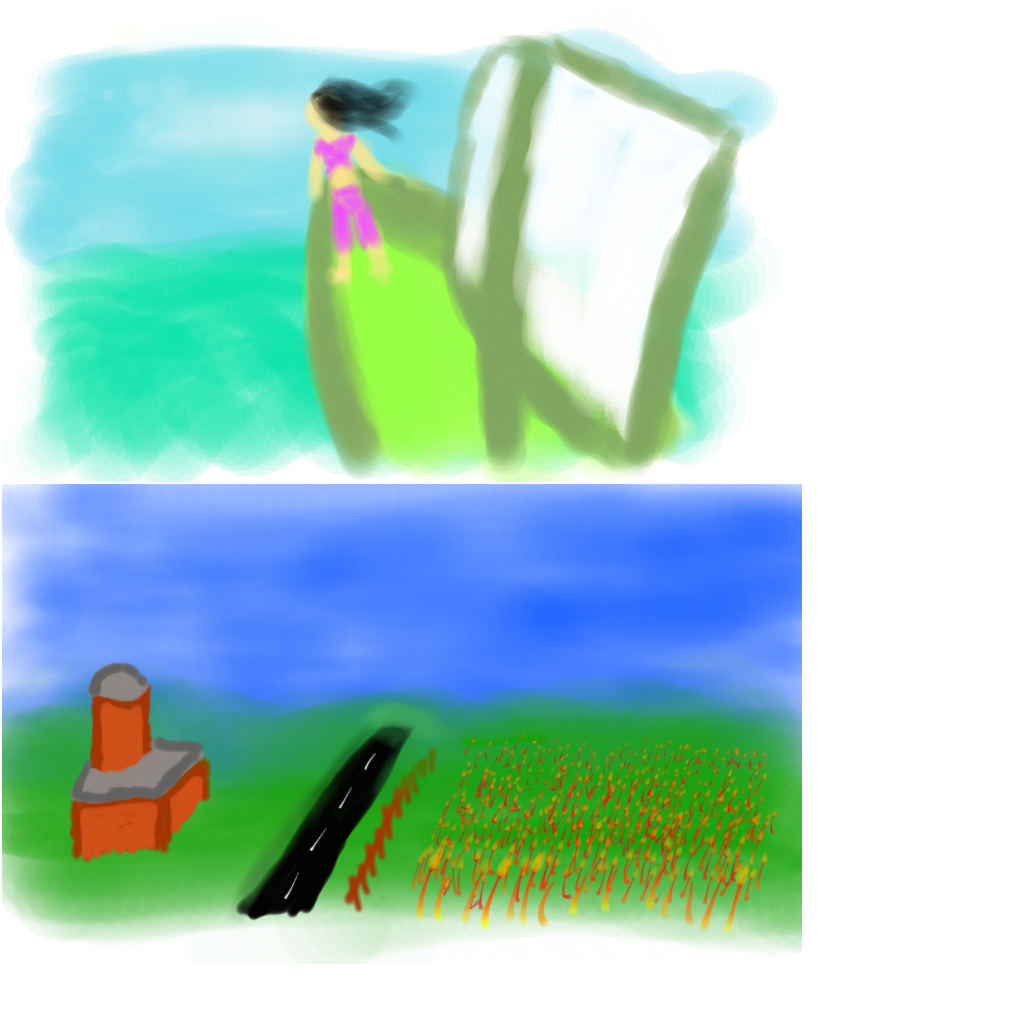
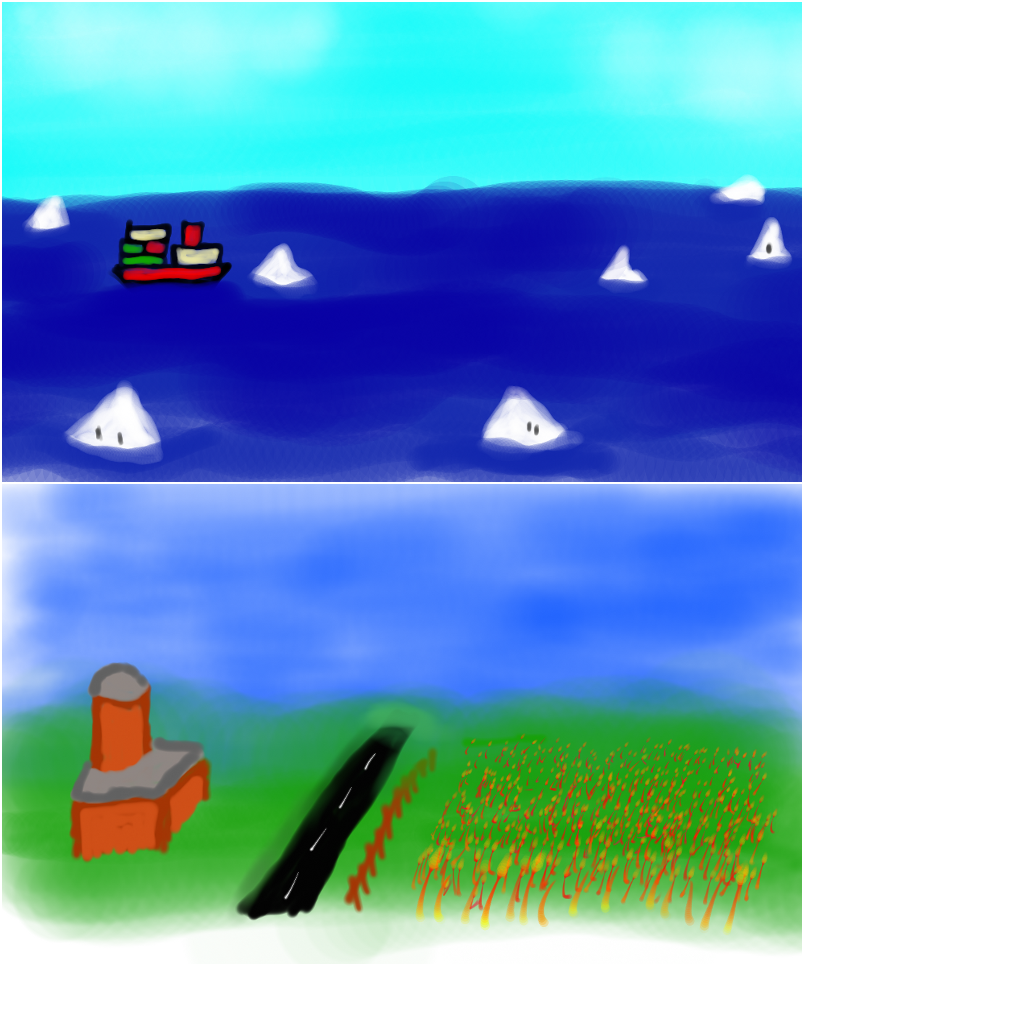
Extra levels and niceties
Added 4 levels to the game. Now the game will not loop anymore on the
last level. Every time you clear a level, you gain a life. You risk
your life.

diff --git a/core/src/org/castelodelego/ld29/Globals.java b/core/src/org/castelodelego/ld29/Globals.java
@@ -49,12 +49,16 @@ public class Globals {
 		
 		
 		// FIXME: Make level loading from text file
-		gc = new GameContext(3);
+		gc = new GameContext(7);
 		levellist = new Level[gc.getmaxlevel()];
 		int i = 0;
 		levellist[i++] = new Level("levels/city","levels/farm",4,Color.WHITE);
 		levellist[i++] = new Level("levels/crone","levels/maiden",8,Color.WHITE);
-		levellist[i++] = new Level("levels/presentation","levels/study",12,Color.WHITE);		
+		levellist[i++] = new Level("levels/presentation","levels/study",12,Color.WHITE);
+		levellist[i++] = new Level("levels/iceberg1","levels/iceberg2",10,Color.WHITE);
+		levellist[i++] = new Level("levels/tablet1","levels/tablet2",16,Color.WHITE);
+		levellist[i++] = new Level("levels/science1","levels/science2",8,Color.WHITE);
+		levellist[i++] = new Level("levels/thankyou1","levels/thankyou2",2,Color.WHITE);
 	}		
 	
 }

diff --git a/core/src/org/castelodelego/ld29/gameplay/GameplayScreen.java b/core/src/org/castelodelego/ld29/gameplay/GameplayScreen.java
@@ -220,10 +220,13 @@ public class GameplayScreen implements Screen {
 			victory_timer -= delta;
 			if (victory_timer < 0)
 			{
-				Globals.gc.addLevel(1);				
-				reset(Globals.levellist[Globals.gc.getLevel()]);
+				Globals.gc.addLives(1);
+				Globals.gc.addLevel(1);	
 				
-				//((Game) Gdx.app.getApplicationListener()).setScreen(LD29Game.mainScreen);
+				if (Globals.gc.getLevel() == 0)
+					((Game) Gdx.app.getApplicationListener()).setScreen(LD29Game.mainScreen);
+				else
+					reset(Globals.levellist[Globals.gc.getLevel()]);
 			}			
 			break;
 		}					
